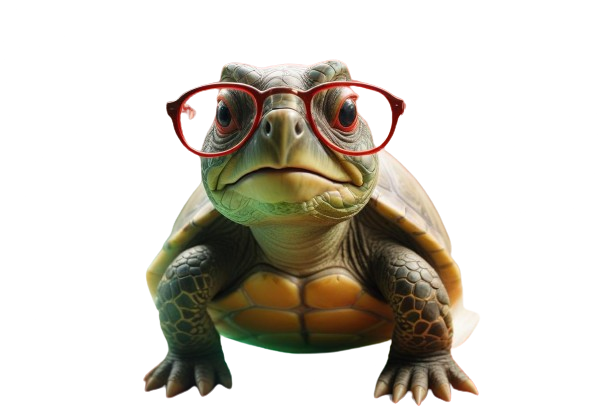
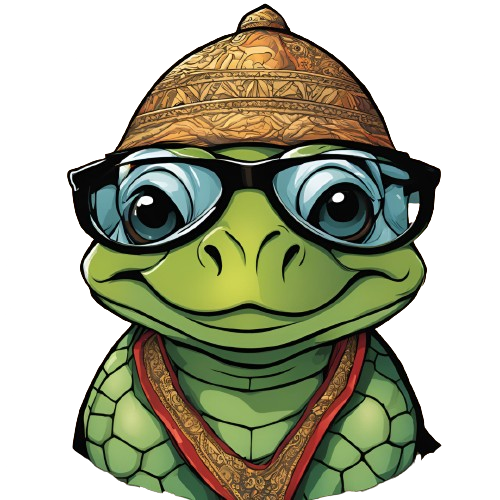
diseño
Cambio de imagen y nuevos diseños

diff --git a/Proy2P_ED/src/main/resources/styles/estilos.css b/Proy2P_ED/src/main/resources/styles/estilos.css
@@ -93,7 +93,7 @@
 }
 
 
-.boton_mean:hover, .recuadro_juego:hover, .boton_sinEstilo:hover{
+.boton_mean:hover, .recuadro_juego:hover, .boton_sinEstilo:hover, .boton_opcion:hover, boton-mean:hover {
     -fx-cursor:hand;
 }
 
@@ -202,6 +202,23 @@
     -fx-font-family:"Arial";
 }
 
+.caja_question{
+    -fx-border-radius:50px;
+    -fx-background-color:#f0f1f4;
+    -fx-background-radius:25px;
+    -fx-font-family:"Arial";
+}
+
+
+.boton_opcion{
+   -fx-background-color: linear-gradient(to right, #FFFF, #c8ff40);
+   -fx-border-width: 1px 1px 0px 1px;
+    -fx-font-family:"Arial Black";
+    -fx-text-fill:black;
+    -fx-border-color:black;
+    -fx-font-size:16px;
+    
+}
 .text-atributos{
     -fx-font-family:"Trebuchet MS";
     -fx-effect: dropshadow(three-pass-box, #FFD890, 2   , 1, 1, 1);

diff --git a/Proy2P_ED/target/classes/styles/estilos.css b/Proy2P_ED/target/classes/styles/estilos.css
@@ -93,7 +93,7 @@
 }
 
 
-.boton_mean:hover, .recuadro_juego:hover, .boton_sinEstilo:hover{
+.boton_mean:hover, .recuadro_juego:hover, .boton_sinEstilo:hover, .boton_opcion:hover, boton-mean:hover {
     -fx-cursor:hand;
 }
 
@@ -202,6 +202,23 @@
     -fx-font-family:"Arial";
 }
 
+.caja_question{
+    -fx-border-radius:50px;
+    -fx-background-color:#f0f1f4;
+    -fx-background-radius:25px;
+    -fx-font-family:"Arial";
+}
+
+
+.boton_opcion{
+   -fx-background-color: linear-gradient(to right, #FFFF, #c8ff40);
+   -fx-border-width: 1px 1px 0px 1px;
+    -fx-font-family:"Arial Black";
+    -fx-text-fill:black;
+    -fx-border-color:black;
+    -fx-font-size:16px;
+    
+}
 .text-atributos{
     -fx-font-family:"Trebuchet MS";
     -fx-effect: dropshadow(three-pass-box, #FFD890, 2   , 1, 1, 1);

diff --git a/Proy2P_ED/src/main/java/com/espol/proy2p_ed/Principal.java b/Proy2P_ED/src/main/java/com/espol/proy2p_ed/Principal.java
@@ -45,8 +45,8 @@ public class Principal implements Initializable{
     @Override
     public void initialize(URL url, ResourceBundle rb) {
         // Inicializa las imágenes
-        image1 = new Image("/imagenes/tortuga.png");
-        image2 = new Image("/imagenes/tortuga2.png");
+        image1 = new Image("/imagenes/tortuga_preguntando.png");
+        image2 = new Image("/imagenes/tortuga_satisfecha.png");
 
         // Establece la imagen inicial
         vista.setImage(image1);
@@ -87,6 +87,9 @@ public class Principal implements Initializable{
         timeline.play(); // Iniciar la animación
     }
     
-    
+    @FXML
+    private void makeJuego() throws IOException{
+        App.setRoot("newJuego");
+    }
         
 }

diff --git a/Proy2P_ED/src/main/java/com/espol/proy2p_ed/App.java b/Proy2P_ED/src/main/java/com/espol/proy2p_ed/App.java
@@ -26,7 +26,7 @@ public class App extends Application {
     
     @Override
     public void start(Stage stage) throws IOException {
-        scene = new Scene(loadFXML("principal"), 640, 480);
+        scene = new Scene(loadFXML("principal"), 640, 400);
         stage.setTitle("APolitor");
         stage.setScene(scene);
         stage.show();

diff --git a/Proy2P_ED/src/main/java/com/espol/proy2p_ed/GoJuegoController.java b/Proy2P_ED/src/main/java/com/espol/proy2p_ed/GoJuegoController.java
@@ -108,6 +108,7 @@ public class GoJuegoController implements Initializable {
         botonNo.setVisible(false);
         botonSi.setVisible(false);
         botonCorregir.setVisible(false);
+        tortuga.setImage(new Image("/imagenes/tortuga_satisfecha.png"));
         Question.setText("Lo que pensó fue un "+ ArbolJuego.getRoot().getContent());
     }
     